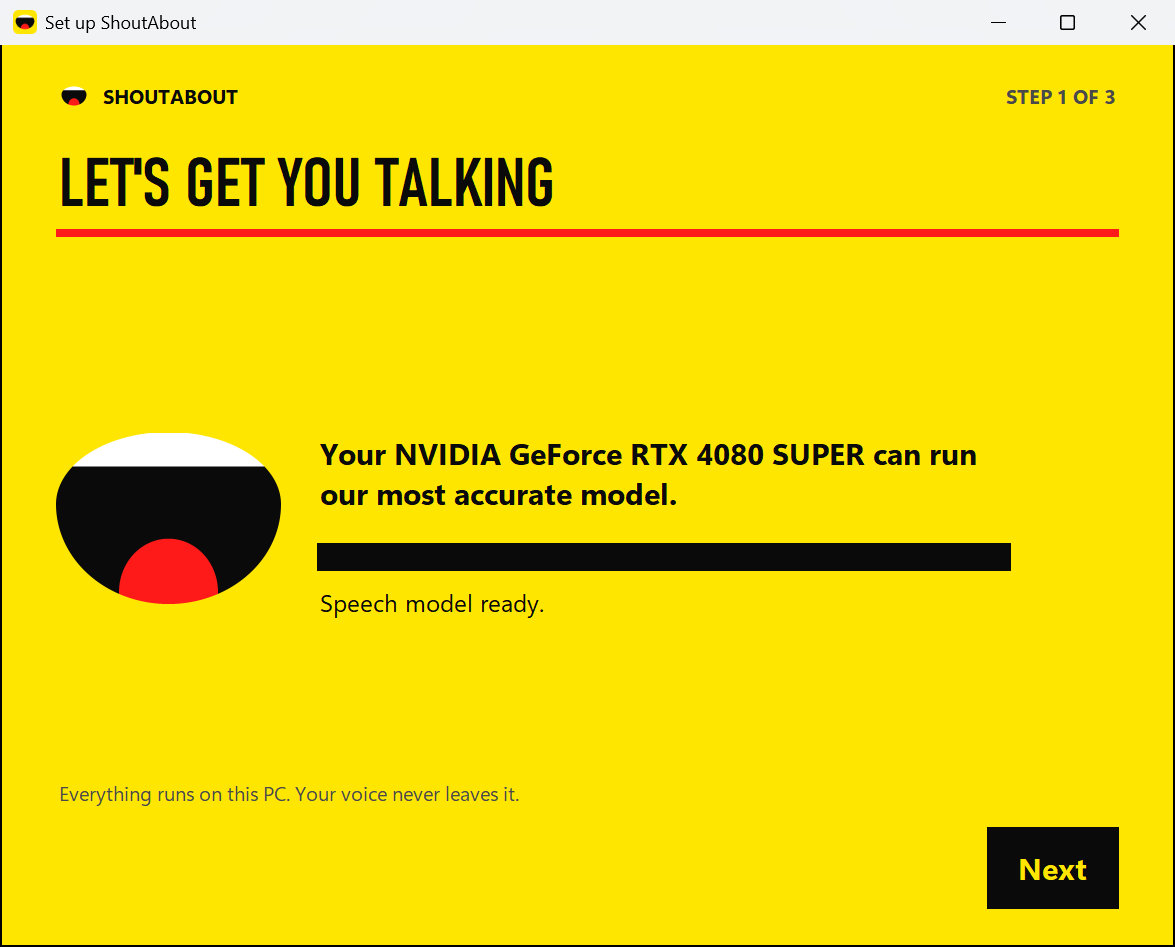
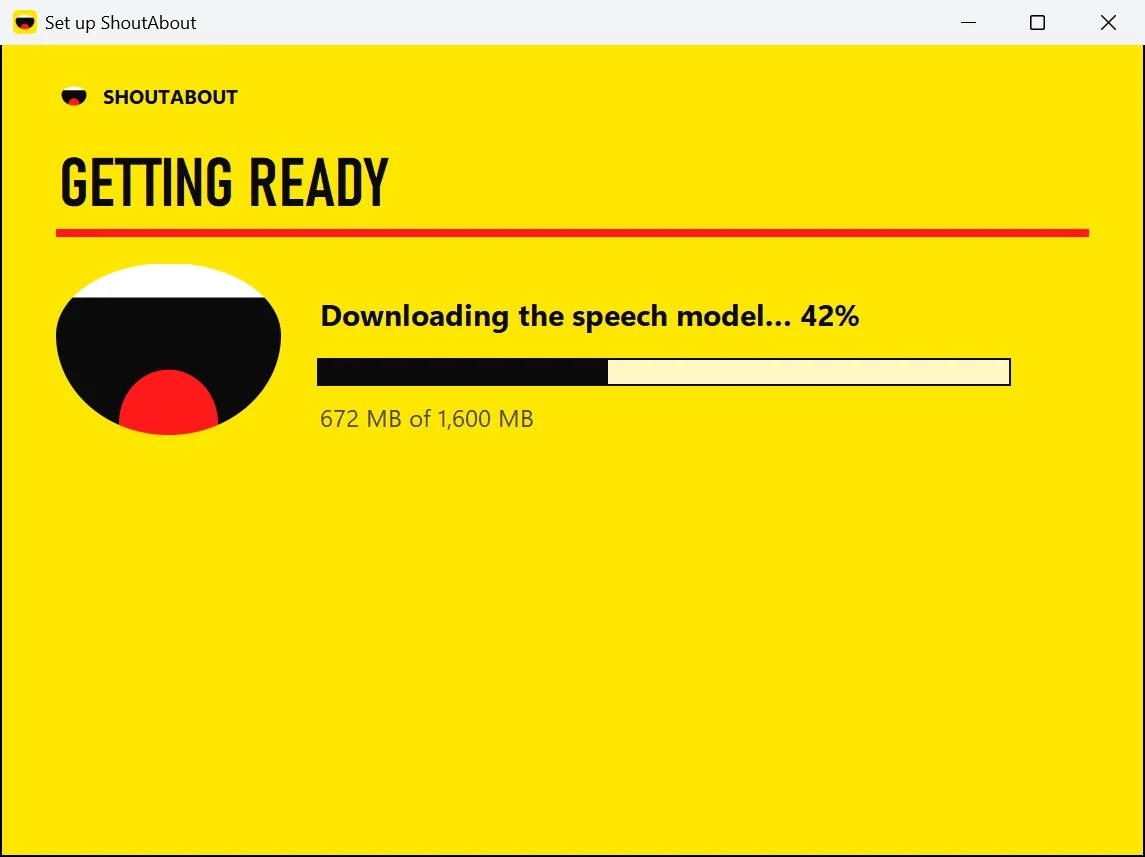
site: the setup guide shows the new two-screen computer setup and the Connect your iPhone screen

diff --git a/site/setup.html b/site/setup.html
@@ -84,35 +84,22 @@
         </li>
         <li class="card guide-step">
           <div>
-            <p class="guide-step__label"><span class="chip">Step 1 of 3</span></p>
-            <h3 class="h3">Let's get you talking</h3>
-            <p>ShoutAbout picks the speech model that fits your computer and downloads it. Nothing to choose.</p>
+            <p class="guide-step__label"><span class="chip">Open it</span></p>
+            <h3 class="h3">Getting ready</h3>
+            <p>ShoutAbout downloads the right speech model for your computer.</p>
           </div>
           <figure>
-            <div class="window"><img src="/assets/img/shots/pc-setup-ready.webp" width="1175" height="947" loading="lazy" decoding="async" alt="Step 1 of 3, Let's get you talking: Your NVIDIA GeForce RTX 4080 SUPER can run our most accurate model. Speech model ready. Next."></div>
+            <div class="window"><img src="/assets/img/shots/pc-setup-ready.webp" width="1145" height="857" loading="lazy" decoding="async" alt="Getting ready: downloading the speech model, 42%."></div>
           </figure>
         </li>
         <li class="card guide-step">
           <div>
-            <p class="guide-step__label"><span class="chip">Step 2 of 3</span></p>
-            <h3 class="h3">How will you use ShoutAbout?</h3>
-            <p>Leave <strong>Talk to this PC</strong> on (<strong>Talk to this Mac</strong> on a Mac). Your key is <kbd>Right Ctrl</kbd> on Windows and <kbd>Right &#8984;</kbd> on a Mac.</p>
-            <p class="muted">Want your iPhone too? Turn on <strong>Talk from my iPhone</strong> and see <a href="#linked">iPhone &rarr; computer</a>.</p>
+            <p class="guide-step__label"><span class="chip">Try it</span></p>
+            <h3 class="h3">Say something</h3>
+            <p>Press <kbd>Right Ctrl</kbd> (<kbd>Right &#8984;</kbd> on a Mac), say the line, press it again.</p>
           </div>
           <figure>
-            <div class="window"><img src="/assets/img/shots/pc-setup-use.webp" width="1175" height="947" loading="lazy" decoding="async" alt="Step 2 of 3, How will you use ShoutAbout: two cards with switches. Talk to this PC: Press Right Ctrl, talk, press it again. Talk from my iPhone: Waiting for your iPhone."></div>
-          </figure>
-        </li>
-        <li class="card guide-step">
-          <div>
-            <p class="guide-step__label"><span class="chip">Step 3 of 3</span></p>
-            <h3 class="h3">Try it</h3>
-            <p>Press your key and say:</p>
-            <span class="quote">&ldquo;This is my first dictation.&rdquo;</span>
-            <p>Press it again. Your words appear in the box.</p>
-          </div>
-          <figure>
-            <div class="window"><img src="/assets/img/shots/pc-setup-try.webp" width="1175" height="947" loading="lazy" decoding="async" alt="Step 3 of 3, Try it: Press Right Ctrl, say this, then press it again: This is my first dictation. A white box waits for the words."></div>
+            <div class="window"><img src="/assets/img/shots/pc-setup-try.webp" width="1145" height="857" loading="lazy" decoding="async" alt="Try it: Press Right Ctrl, say this, then press it again: This is my first dictation."></div>
           </figure>
         </li>
         <li class="card guide-step">
@@ -186,11 +173,11 @@
         <li class="card guide-step">
           <div>
             <p class="guide-step__label"><span class="chip">On your computer</span></p>
-            <h3 class="h3">Turn on &ldquo;Talk from my iPhone&rdquo;</h3>
-            <p>It's in the setup window. Already set up? In ShoutAbout, open <strong>Settings &rsaquo; Phones &rsaquo; Add a phone</strong>.</p>
+            <h3 class="h3">Connect your iPhone</h3>
+            <p>At the end of setup, or later in <strong>Settings &rsaquo; Add a phone</strong>.</p>
           </div>
           <figure>
-            <div class="window"><img src="/assets/img/shots/pc-setup-use.webp" width="1175" height="947" loading="lazy" decoding="async" alt="The setup window with Talk from my iPhone switched on: Open ShoutAbout on your iPhone. It finds this PC by itself. Waiting for your iPhone."></div>
+            <div class="window"><img src="/assets/img/shots/pc-setup-phone.webp" width="1145" height="857" loading="lazy" decoding="async" alt="Connect your iPhone: Open ShoutAbout on your iPhone. Waiting for your iPhone."></div>
           </figure>
         </li>
         <li class="card guide-step guide-step--text">

diff --git a/scripts/site/make_assets.py b/scripts/site/make_assets.py
@@ -68,9 +68,9 @@ IOS_SHOTS = [
 # (source file, output name, kind). kind: "window" = a PC window, kept at full size;
 # "alpha" = a transparent image (the pill, from overlay.write_state_pngs at 4x).
 PC_SHOTS = [
-    ("setup-1-ready.png", "pc-setup-ready", "window"),
-    ("setup-2-use.png", "pc-setup-use", "window"),
-    ("setup-3-try.png", "pc-setup-try", "window"),
+    ("setup-1-downloading.png", "pc-setup-ready", "window"),
+    ("setup-2-try.png", "pc-setup-try", "window"),
+    ("setup-4-phone.png", "pc-setup-phone", "window"),
     ("approval-prompt.png", "pc-approval", "window"),
     ("overlay-listening-loud.png", "pc-pill-listening", "alpha"),
 ]
